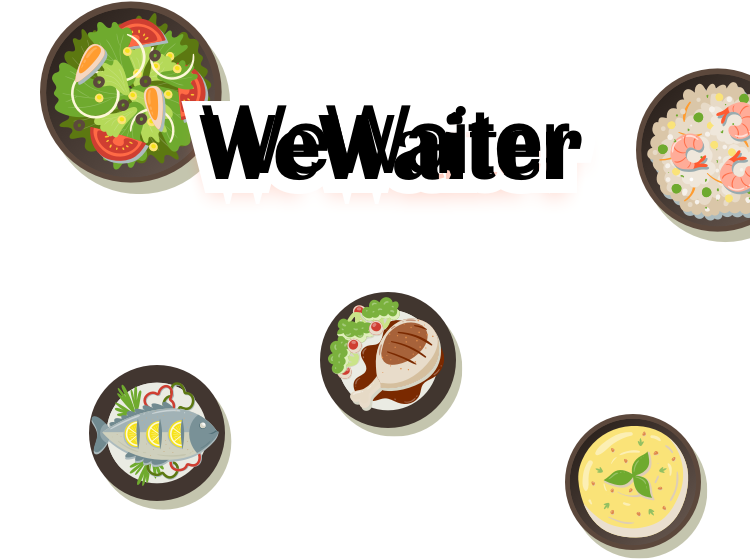
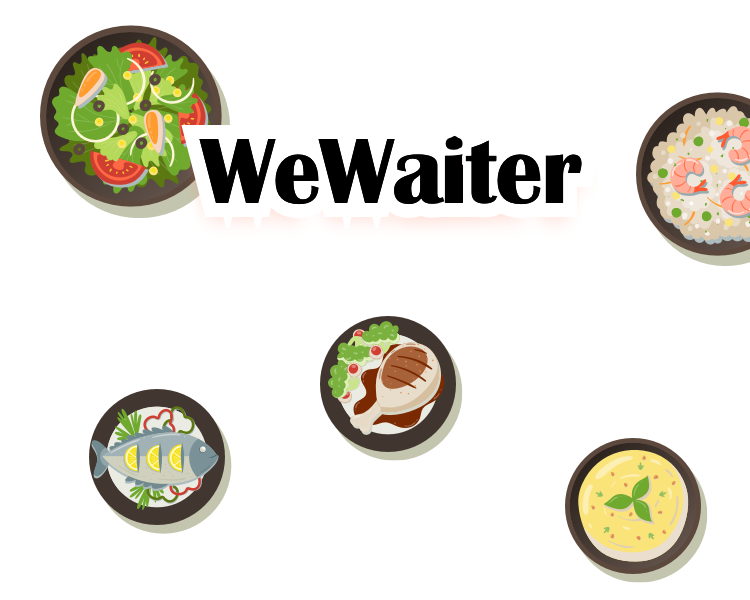
首页修改

diff --git a/MiniProgram/src/pages/index/index.vue b/MiniProgram/src/pages/index/index.vue
@@ -37,10 +37,11 @@
     background-color: $primary-white!important;
     .container {
       background-color: $primary-white;
+      padding-bottom: 80px;
     }
     .we-img-box {
       width: 100%;
-      margin-top: 20px;
+      /*margin-top: 20px;*/
       image {
         width: 100%;
       }
@@ -48,7 +49,7 @@
 
     .we-des {
       width: 100%;
-      margin: 89px auto;
+      margin: 30px auto;
       text-align: center;
       .title {
         /* 扫码一下 自助点餐: */
@@ -56,6 +57,7 @@
         font-size: 49px;
         color: $primary-black;
         letter-spacing: 0;
+        font-weight: bold;
       }
       .subtitle {
         /* 自由 随心 的电子菜单: */

diff --git a/MiniProgram/src/App.vue b/MiniProgram/src/App.vue
@@ -44,13 +44,6 @@ export default {
     /*box-sizing: border-box;*/
   /*}*/
 
-.container {
-  display: flex;
-  flex-direction: column;
-  justify-content: space-between;
-  padding: 0;
-  box-sizing: border-box;
-}
 /* this rule will be remove */
 * {
   transition: width 2s;
